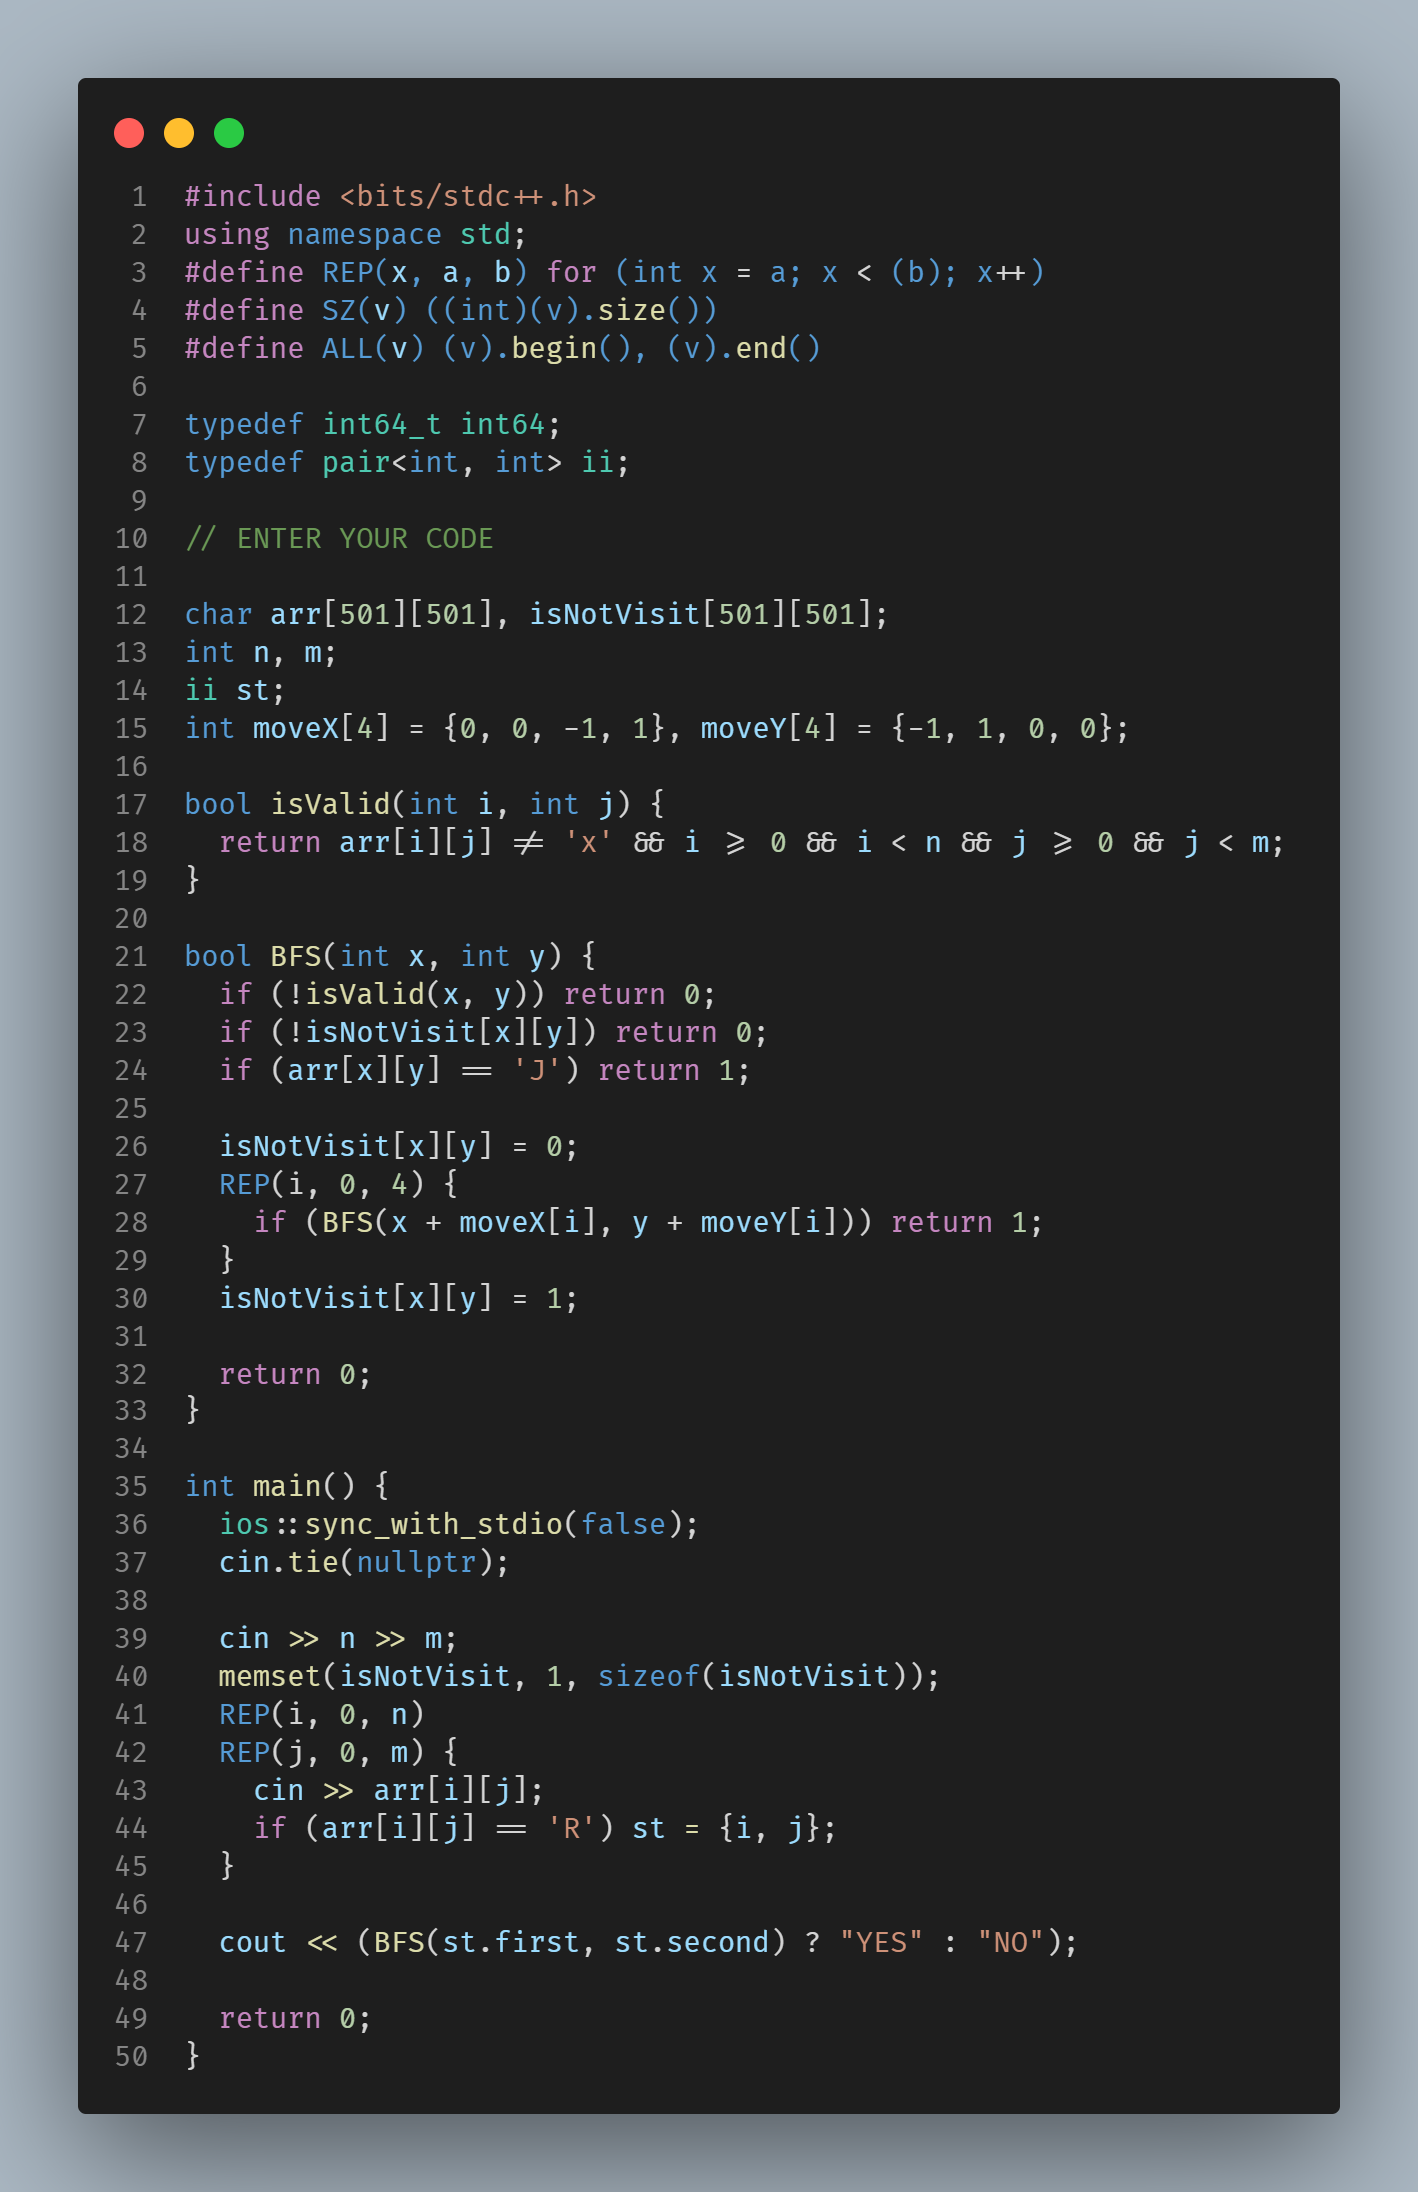
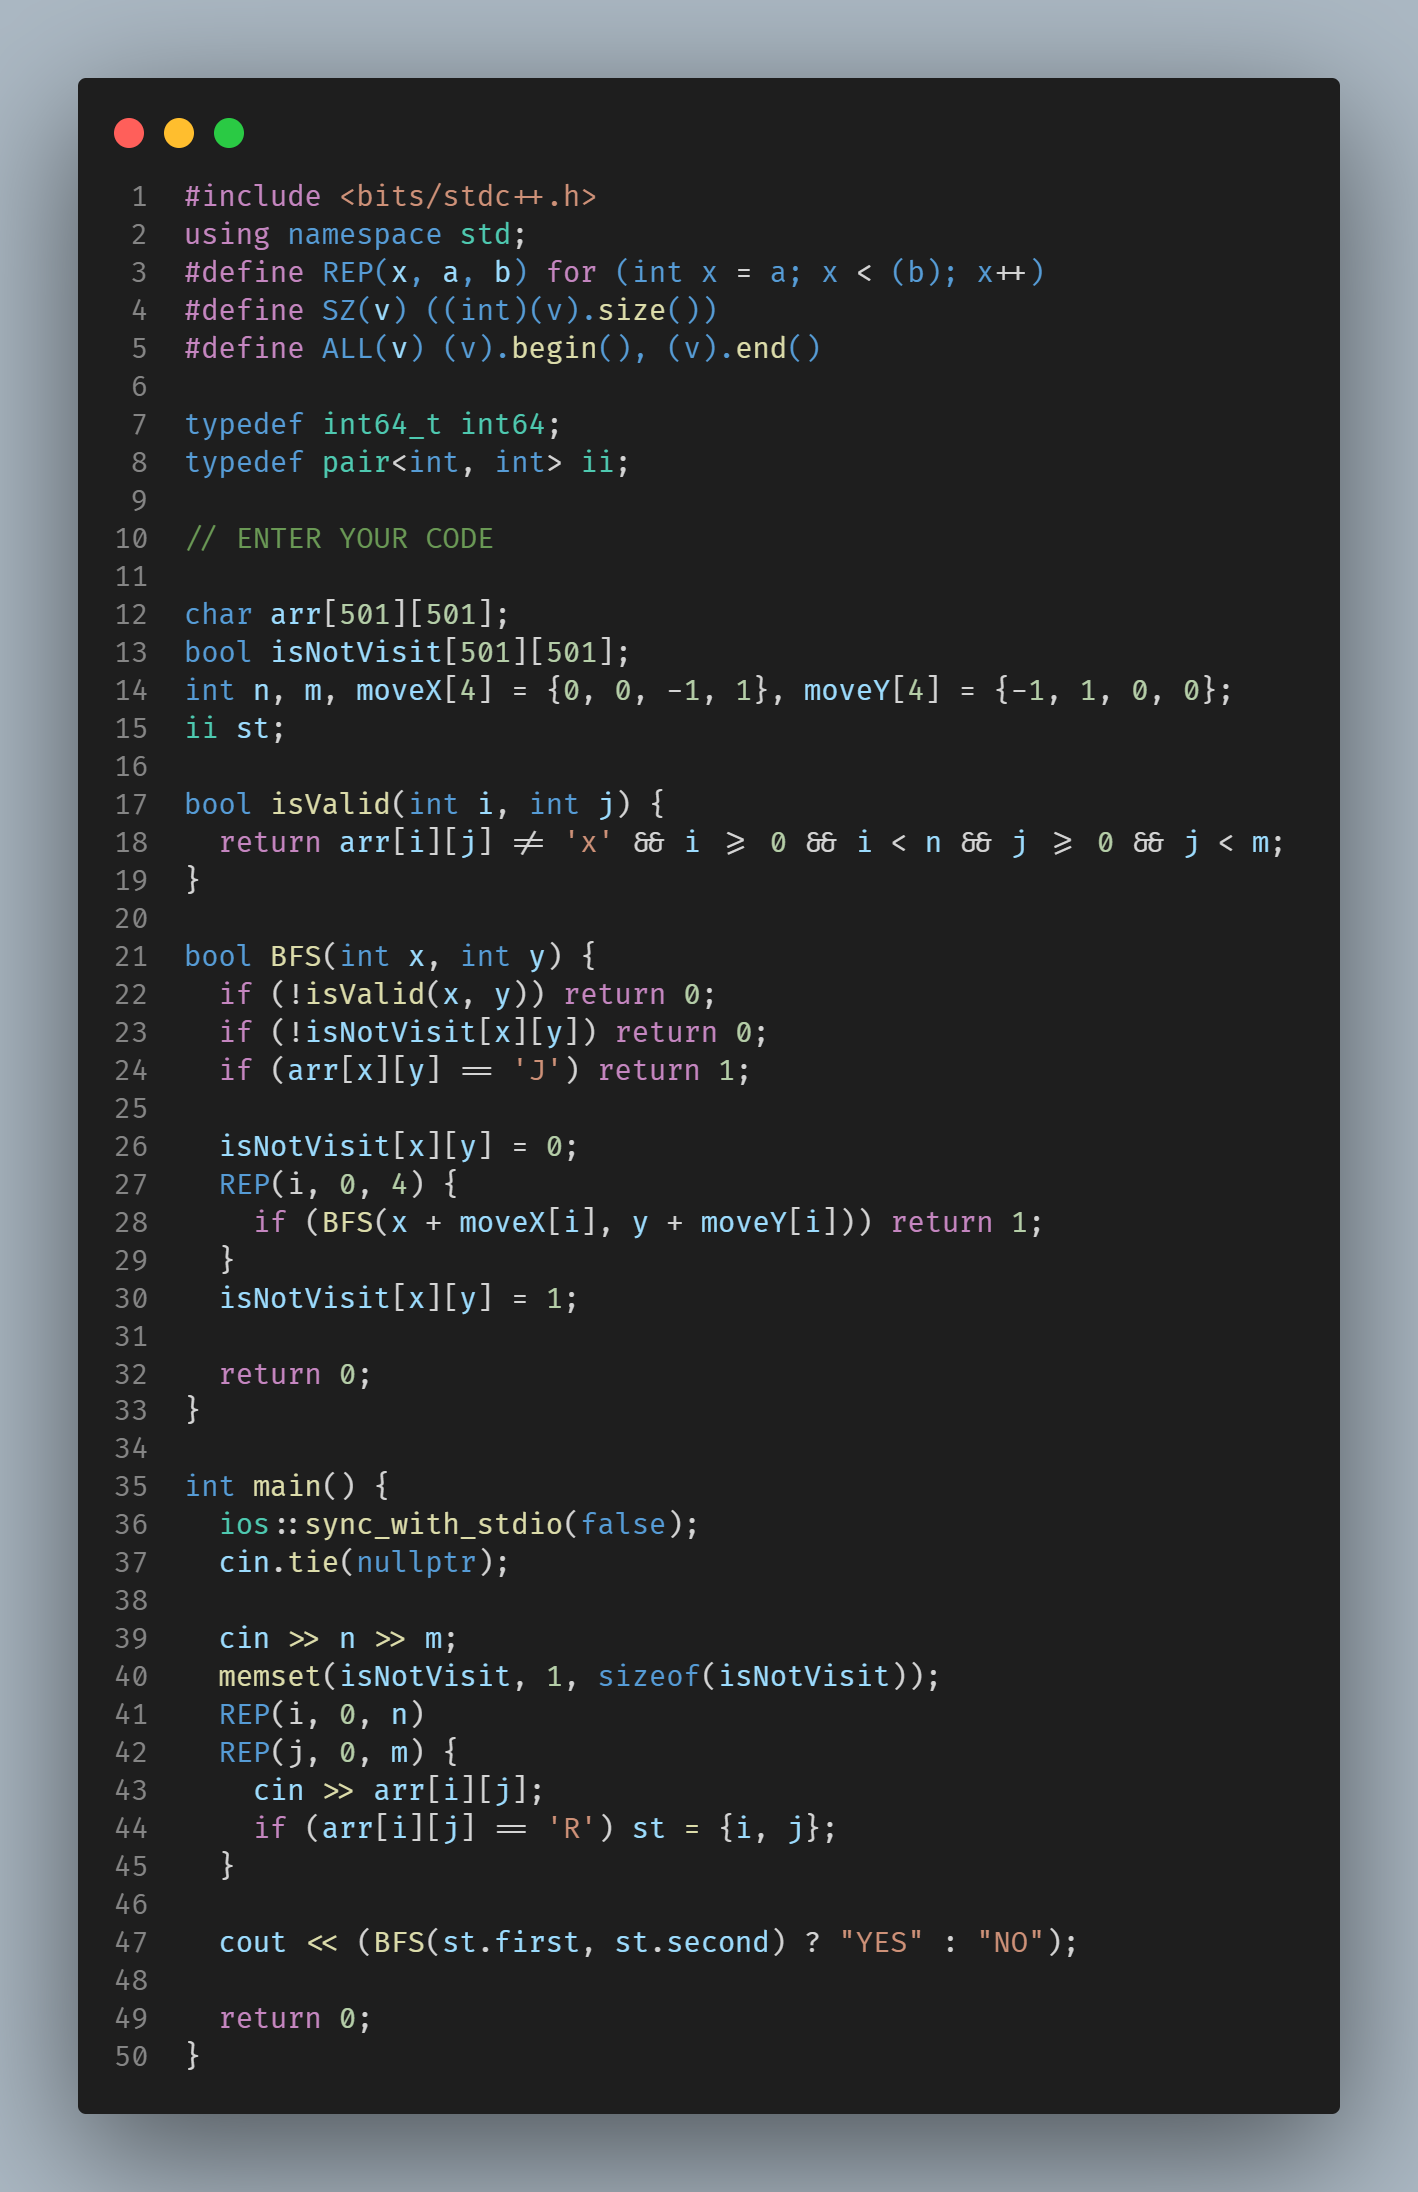
06/03/2023

diff --git a/vinhdinhcoder/4953.cpp b/vinhdinhcoder/4953.cpp
@@ -18,17 +18,15 @@ bool isValid(int i, int j) {
   return arr[i][j] != 'x' && i >= 0 && i < n && j >= 0 && j < m;
 }
 
-bool BFS(int x, int y) {
+bool DFS(int x, int y) {
   if (!isValid(x, y)) return 0;
   if (!isNotVisit[x][y]) return 0;
   if (arr[x][y] == 'J') return 1;
 
   isNotVisit[x][y] = 0;
   REP(i, 0, 4) {
-    if (BFS(x + moveX[i], y + moveY[i])) return 1;
+    if (DFS(x + moveX[i], y + moveY[i])) return 1;
   }
-  isNotVisit[x][y] = 1;
-
   return 0;
 }
 
@@ -44,7 +42,7 @@ int main() {
     if (arr[i][j] == 'R') st = {i, j};
   }
 
-  cout << (BFS(st.first, st.second) ? "YES" : "NO");
+  cout << (DFS(st.first, st.second) ? "YES" : "NO");
 
   return 0;
 }
